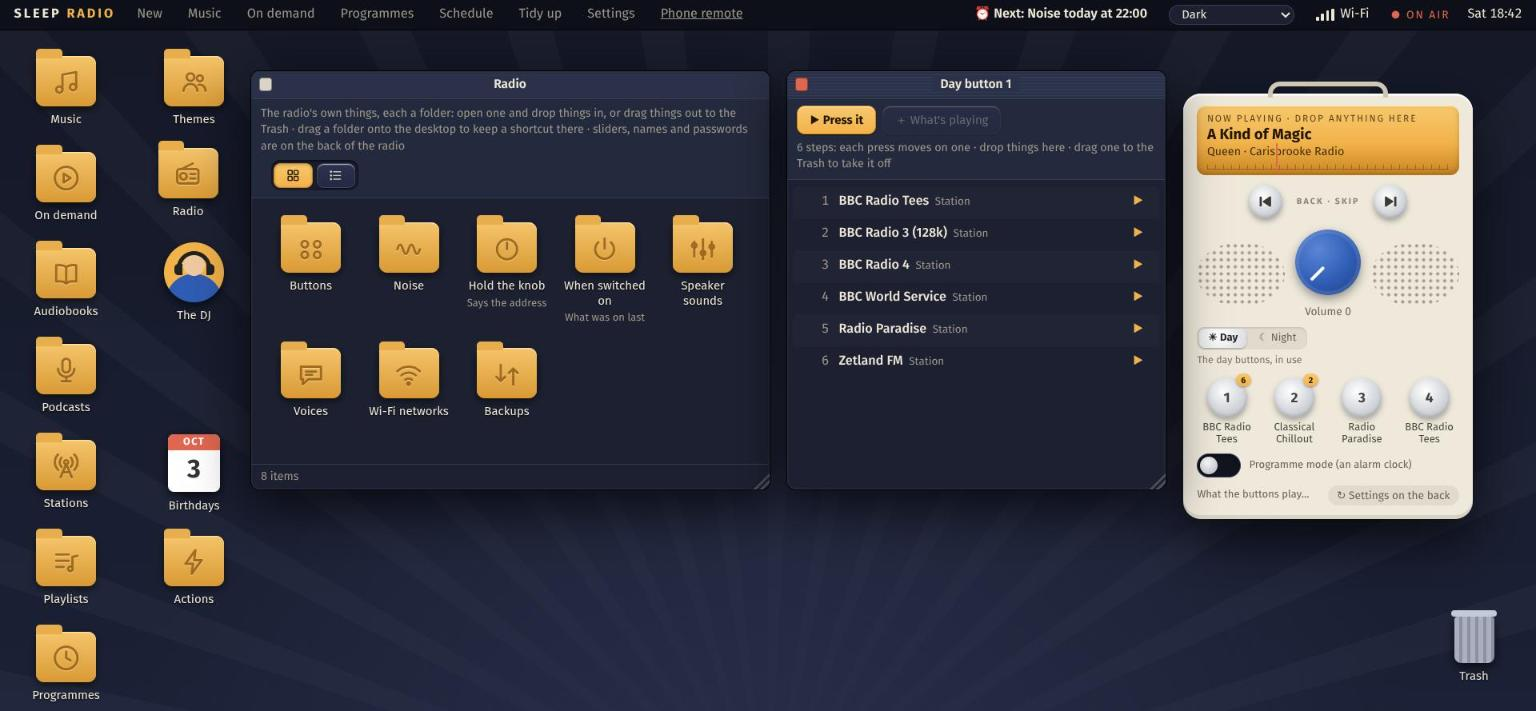
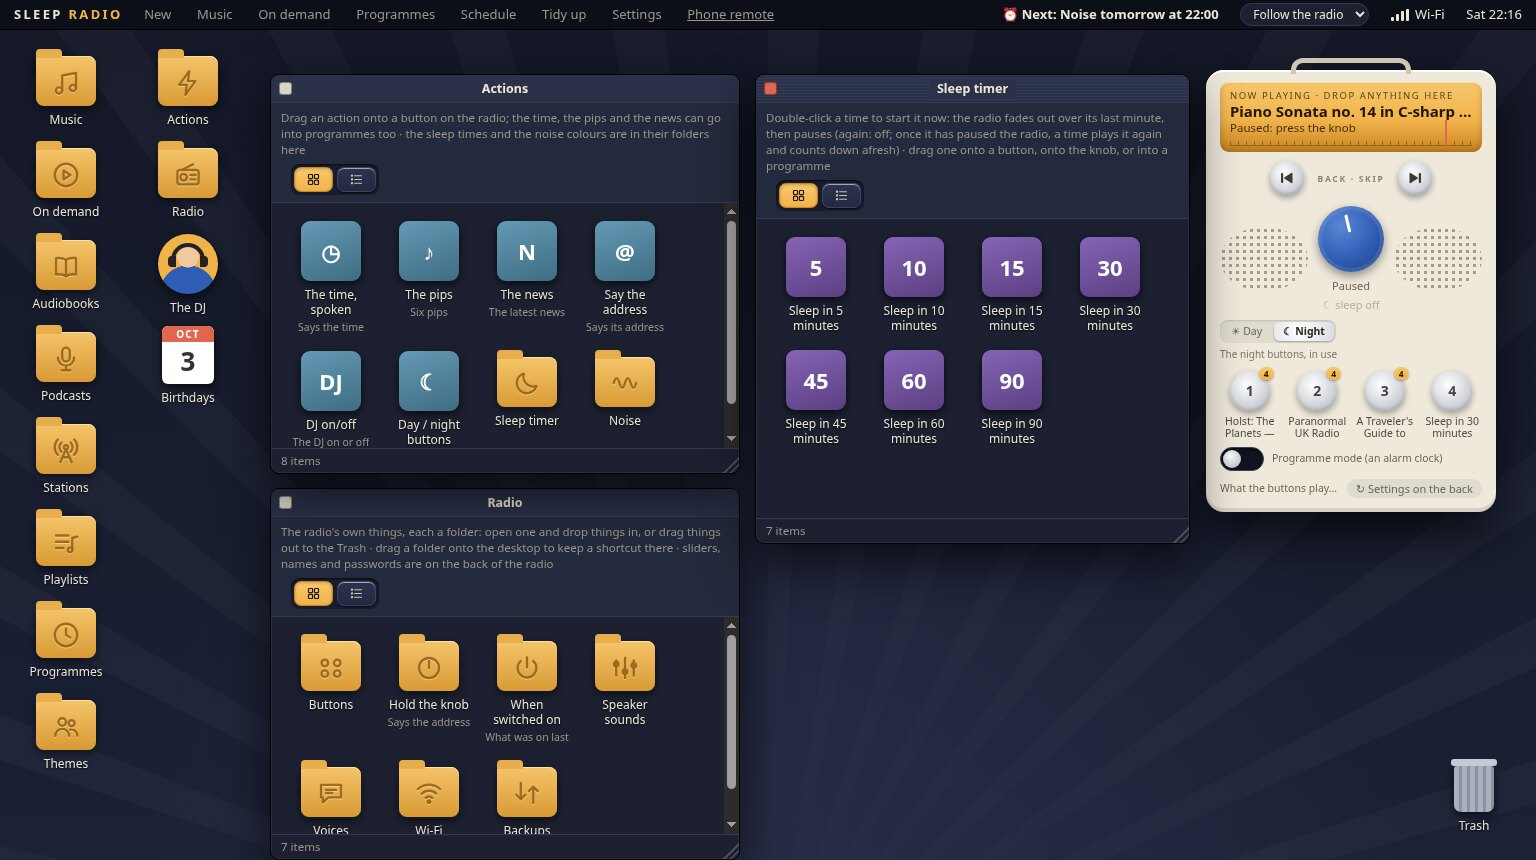
README: a fresh screenshot; the DJ and Birthdays no longer under Actions and Radio
The screenshot shows the Actions, Sleep timer and Radio folders as they
are now. On a browser's first visit the DJ and Birthdays icons were put
where Actions and Radio already were; they now sit below them.

diff --git a/app/sleepradiopi/web/desktop.html b/app/sleepradiopi/web/desktop.html
@@ -1158,7 +1158,7 @@ function loadDesk() {
   }
   if (!desk.length) {
     [MUSIC, ONDEMAND, BOOKS, PODCASTS, STATIONS, PLAYLISTS, PROGRAMMES, LISTS, ACTIONS_BOX, RADIO_BOX].forEach((f, i) => desk.push({ id: f.id, x: 18 + Math.floor(i / 8) * 122, y: 14 + (i % 8) * 92 }));
-    [DJ, BDAYS].forEach((o, i) => desk.push({ id: o.id, x: 140, y: 14 + i * 100, alias: false }));
+    [DJ, BDAYS].forEach((o, i) => desk.push({ id: o.id, x: 140, y: 14 + (i + 2) * 92, alias: false }));   // (under Actions and Radio, which head that column)
   }
 }
 function freeSpot() {                  // the first place on the icon grid that nothing is near, column by column

diff --git a/README.md b/README.md
@@ -21,9 +21,9 @@ software, and the case to print.
 The web page for a computer is a small desktop: your music, stations,
 podcasts and programmes are folders, the radio itself sits on it, and
 setting it up is dragging things onto it. Here its night look, with the
-Radio folder and one of the buttons open:
+Actions, Sleep timer and Radio folders open:
 
-![The desktop page at night: folders down the left, the Radio folder open showing Buttons, Noise, Hold the knob, When switched on, Speaker sounds, Voices, Wi-Fi networks and Backups, a button's folder listing six stations, and the radio on the right](docs/desktop.jpg)
+![The desktop page at night: folders down the left; the Actions folder open showing the time, the pips, the news, say the address, DJ on/off, day/night buttons and the Sleep timer and Noise folders; the Sleep timer folder showing sleep times from 5 to 90 minutes; the Radio folder showing Buttons, Hold the knob, When switched on, Speaker sounds, Voices, Wi-Fi networks and Backups; and the radio on the right with its knob and four buttons](docs/desktop.jpg)
 
 ## What it does
 
